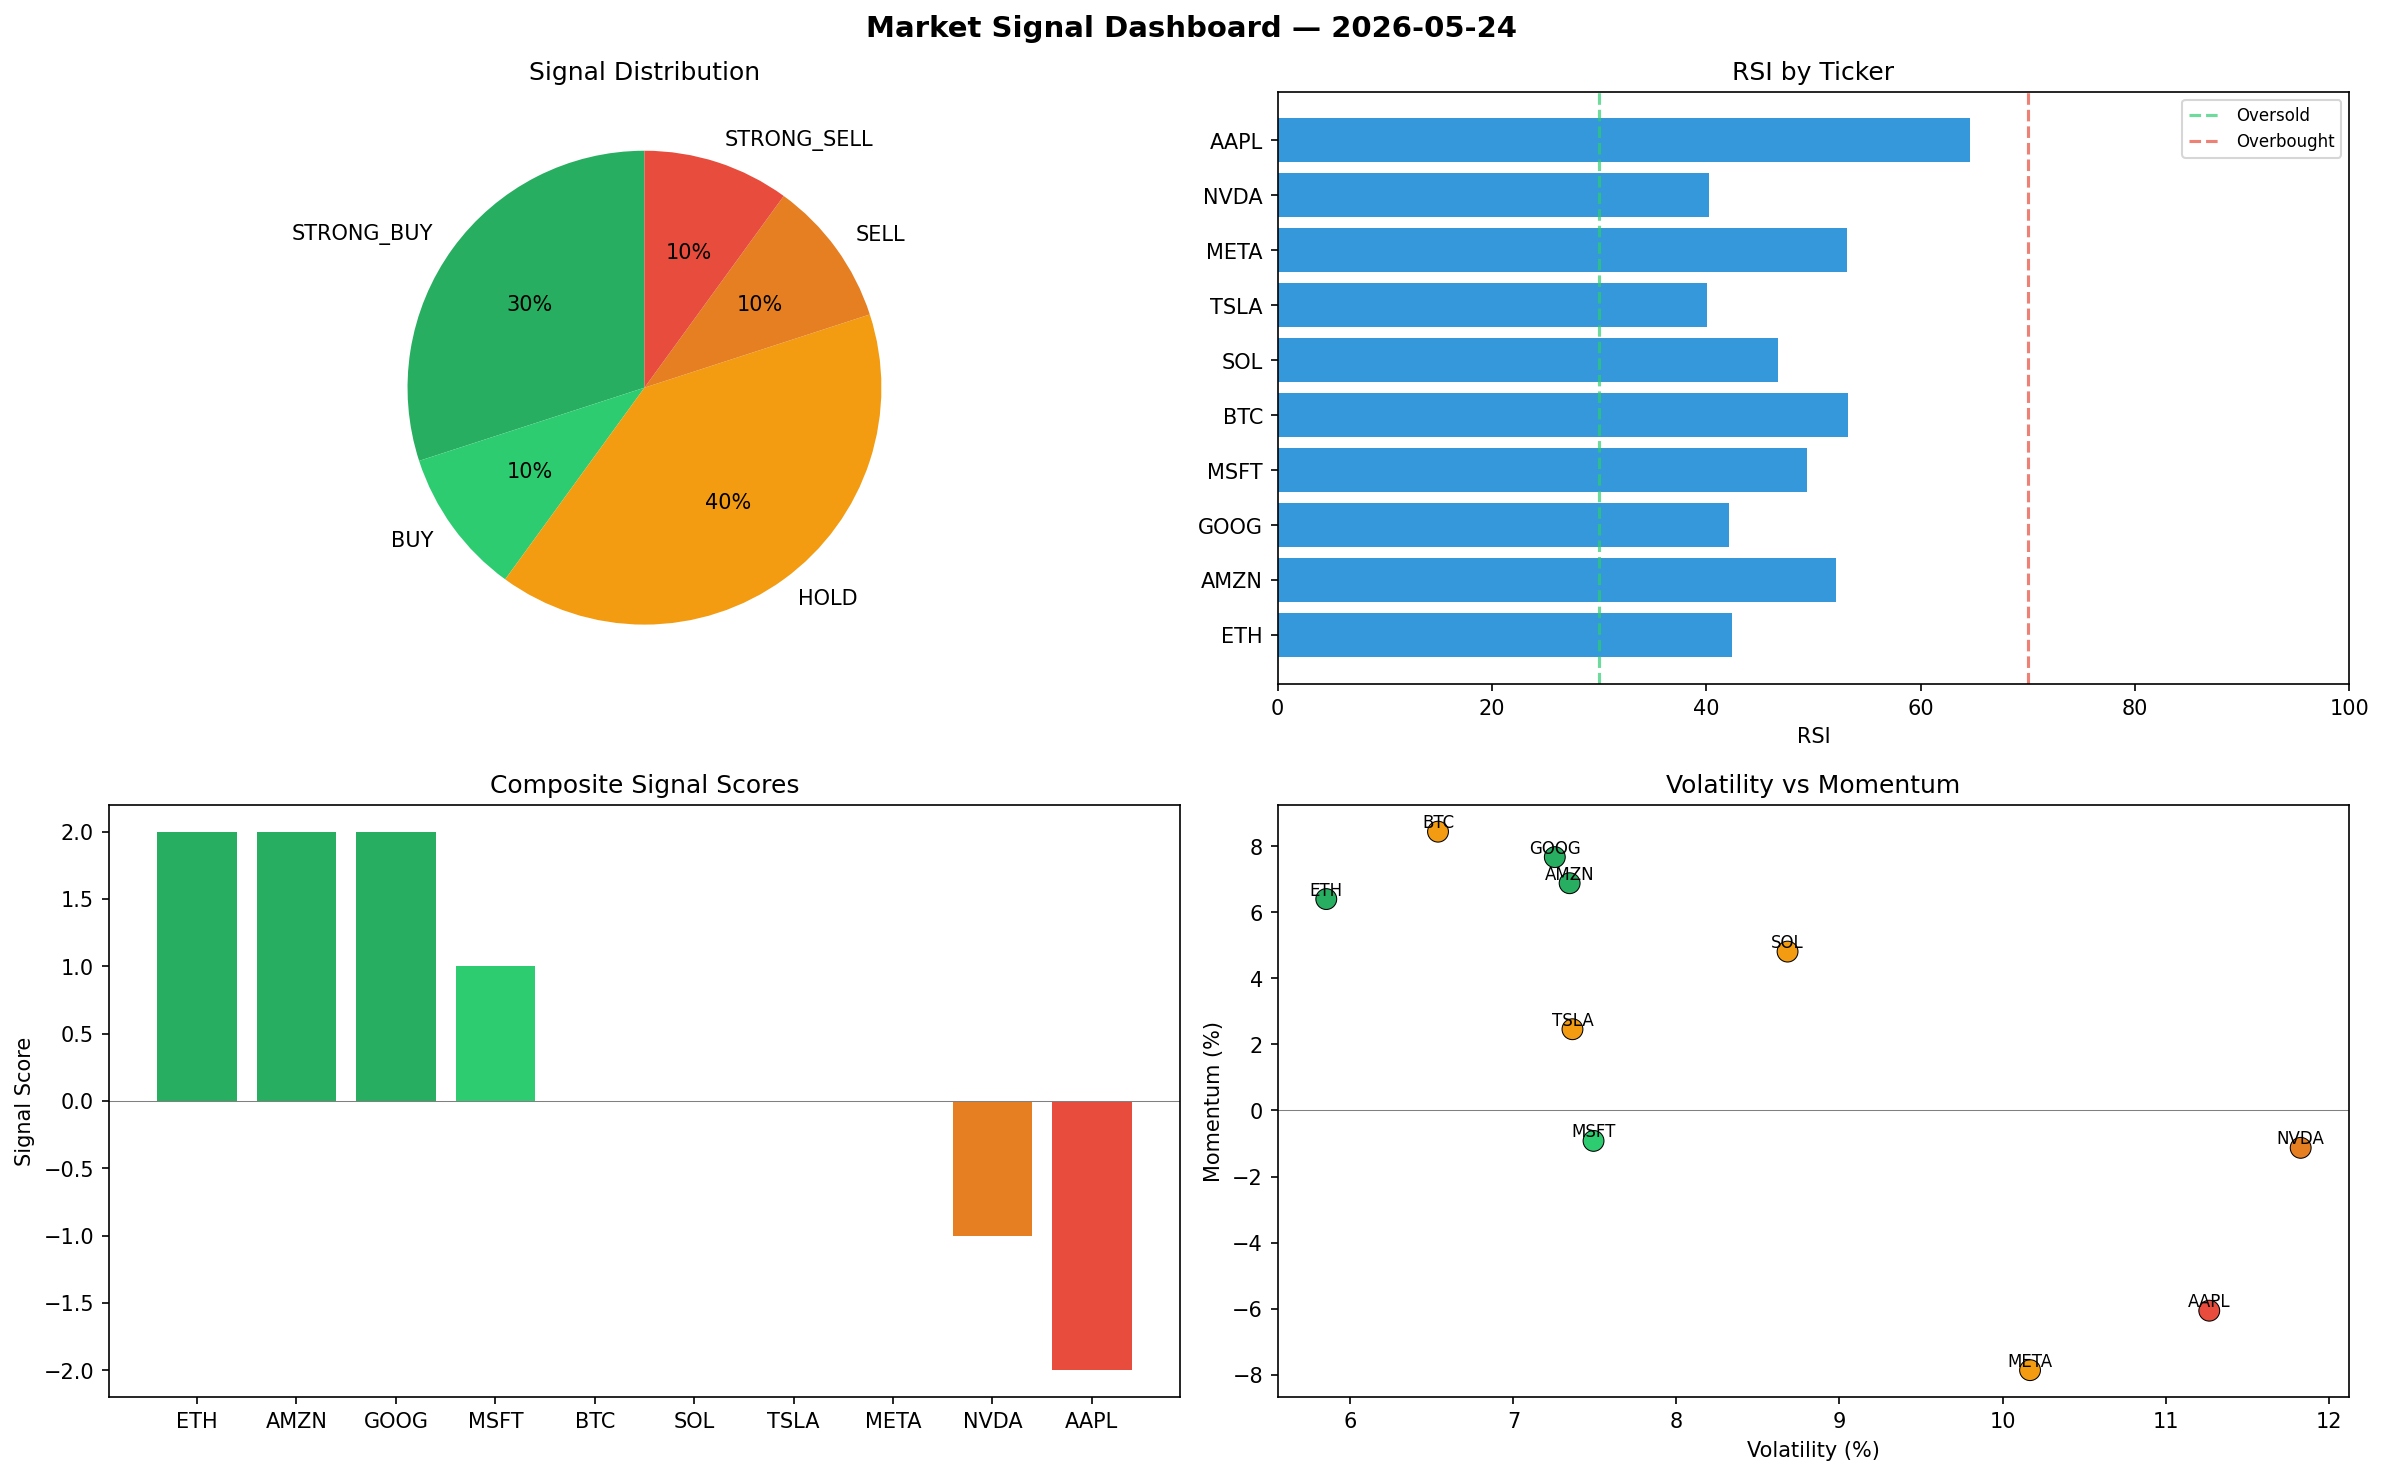
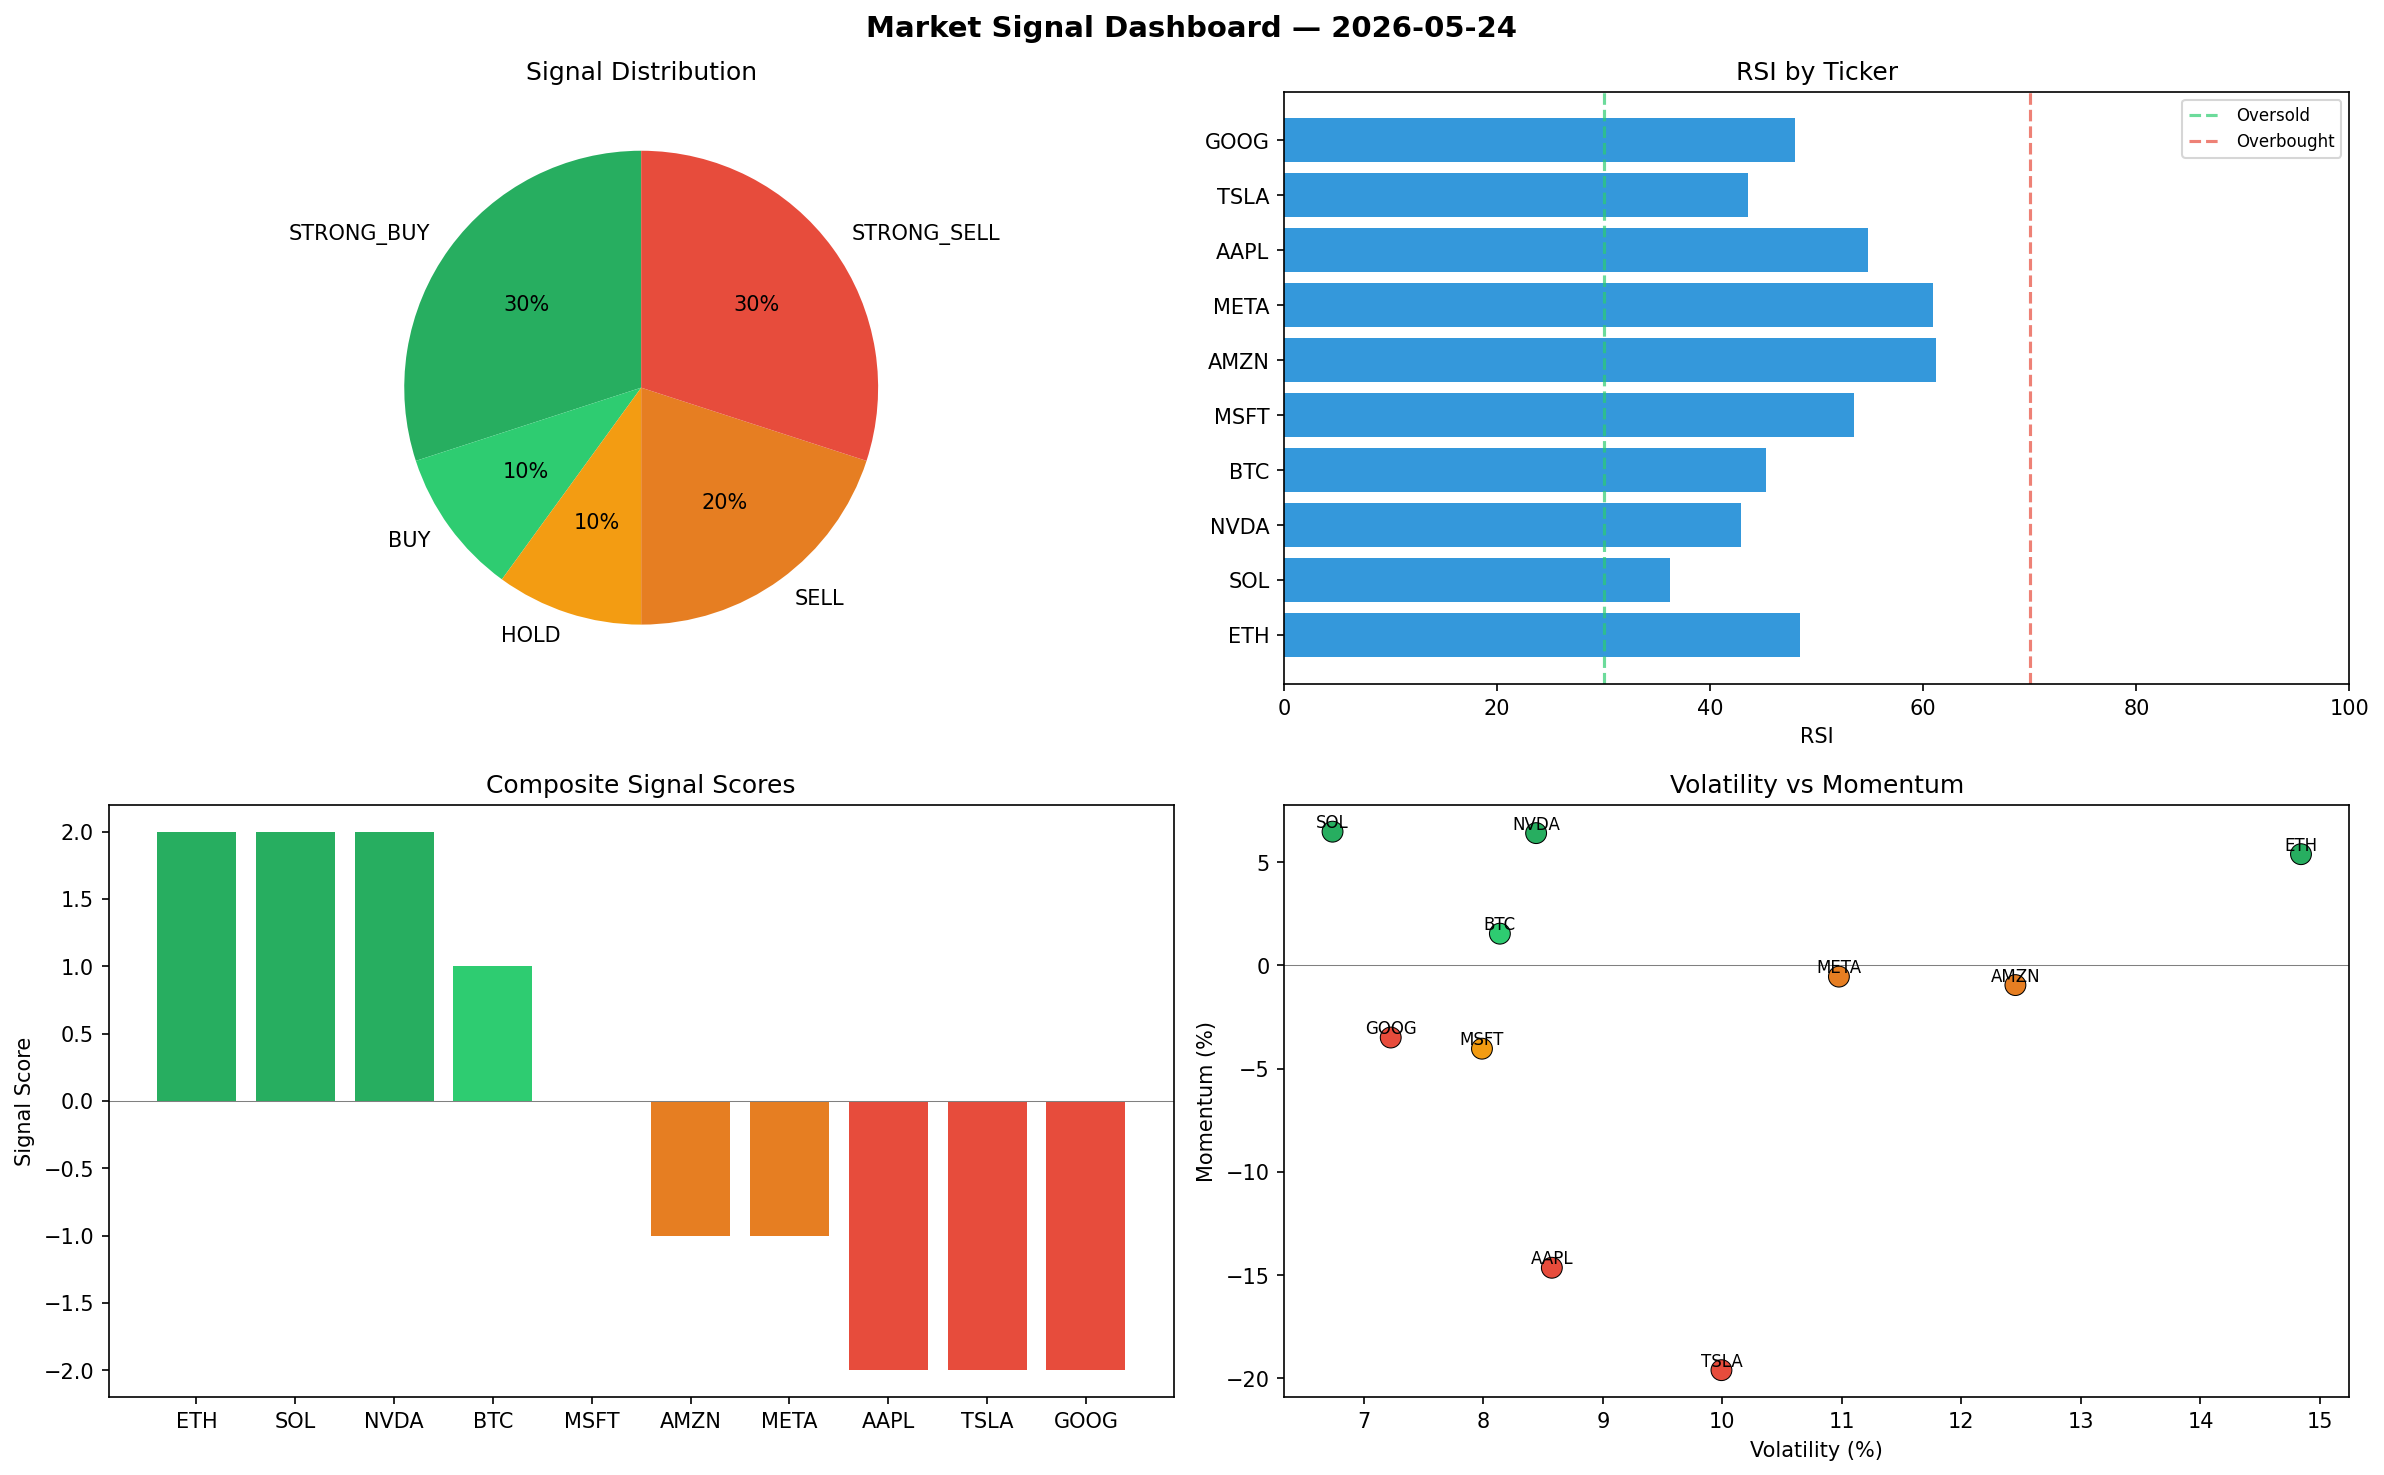
automated-bots: market signals 2026-05-24T10:16

diff --git a/logs/2026-05-24.md b/logs/2026-05-24.md
@@ -1,6 +1,6 @@
 # Market Signal Report — 2026-05-24
 
-**Run ID:** `4d2b1b6ae8` | **Buy:** 4 | **Sell:** 2 | **Hold:** 4
+**Run ID:** `8917eb3070` | **Buy:** 4 | **Sell:** 5 | **Hold:** 1
 
 ![Dashboard](2026-05-24_dashboard.png)
 
@@ -8,28 +8,28 @@
 
 | Ticker | Price | Signal | Score | RSI | Momentum | Confidence |
 |--------|-------|--------|-------|-----|----------|------------|
-| ETH | $3742.64 | **STRONG_BUY** | 2 | 42.38 | 0.064 | 0.5 |
-| AMZN | $831.34 | **STRONG_BUY** | 2 | 52.13 | 0.0688 | 0.5 |
-| GOOG | $3880.33 | **STRONG_BUY** | 2 | 42.14 | 0.0767 | 0.5 |
-| MSFT | $1763.37 | **BUY** | 1 | 49.39 | -0.0092 | 0.25 |
-| BTC | $1974.66 | **HOLD** | 0 | 53.25 | 0.0844 | 0.0 |
-| SOL | $2780.36 | **HOLD** | 0 | 46.67 | 0.0481 | 0.0 |
-| TSLA | $571.19 | **HOLD** | 0 | 40.02 | 0.0246 | 0.0 |
-| META | $388.6 | **HOLD** | 0 | 53.1 | -0.0786 | 0.0 |
-| NVDA | $4059.3 | **SELL** | -1 | 40.24 | -0.0113 | 0.25 |
-| AAPL | $2055.37 | **STRONG_SELL** | -2 | 64.63 | -0.0606 | 0.5 |
+| ETH | $5485.78 | **STRONG_BUY** | 2 | 48.43 | 0.0539 | 0.5 |
+| SOL | $1846.35 | **STRONG_BUY** | 2 | 36.19 | 0.0648 | 0.5 |
+| NVDA | $1324.15 | **STRONG_BUY** | 2 | 42.85 | 0.0641 | 0.5 |
+| BTC | $2926.61 | **BUY** | 1 | 45.19 | 0.0154 | 0.25 |
+| MSFT | $2173.33 | **HOLD** | 0 | 53.45 | -0.0403 | 0.0 |
+| AMZN | $999.39 | **SELL** | -1 | 61.22 | -0.0095 | 0.25 |
+| META | $1725.97 | **SELL** | -1 | 60.95 | -0.0054 | 0.25 |
+| AAPL | $3900.11 | **STRONG_SELL** | -2 | 54.81 | -0.1464 | 0.5 |
+| TSLA | $187.65 | **STRONG_SELL** | -2 | 43.5 | -0.196 | 0.5 |
+| GOOG | $648.02 | **STRONG_SELL** | -2 | 47.97 | -0.0349 | 0.5 |
 
 ## Delta vs Yesterday
 
 | Ticker | Today | Yesterday | Price Change | Signal Changed |
 |--------|-------|-----------|-------------|----------------|
-| ETH | STRONG_BUY | HOLD | 📈 59.09% | ⚠ YES |
-| AMZN | STRONG_BUY | STRONG_SELL | 📉 -46.59% | ⚠ YES |
-| GOOG | STRONG_BUY | STRONG_SELL | 📈 23.23% | ⚠ YES |
-| MSFT | BUY | HOLD | 📈 27.17% | ⚠ YES |
-| BTC | HOLD | STRONG_SELL | 📉 -45.69% | ⚠ YES |
-| SOL | HOLD | HOLD | 📈 3.71% | — |
-| TSLA | HOLD | STRONG_BUY | 📉 -12.09% | ⚠ YES |
-| META | HOLD | SELL | 📉 -92.76% | ⚠ YES |
-| NVDA | SELL | STRONG_SELL | 📈 47.17% | ⚠ YES |
-| AAPL | STRONG_SELL | BUY | 📉 -29.24% | ⚠ YES |
+| ETH | STRONG_BUY | HOLD | 📈 133.19% | ⚠ YES |
+| SOL | STRONG_BUY | HOLD | 📉 -31.13% | ⚠ YES |
+| NVDA | STRONG_BUY | STRONG_SELL | 📉 -51.99% | ⚠ YES |
+| BTC | BUY | STRONG_SELL | 📉 -19.51% | ⚠ YES |
+| MSFT | HOLD | HOLD | 📈 56.74% | — |
+| AMZN | SELL | STRONG_SELL | 📉 -35.8% | ⚠ YES |
+| META | SELL | SELL | 📉 -67.85% | — |
+| AAPL | STRONG_SELL | BUY | 📈 34.26% | ⚠ YES |
+| TSLA | STRONG_SELL | STRONG_BUY | 📉 -71.12% | ⚠ YES |
+| GOOG | STRONG_SELL | STRONG_SELL | 📉 -79.42% | — |
